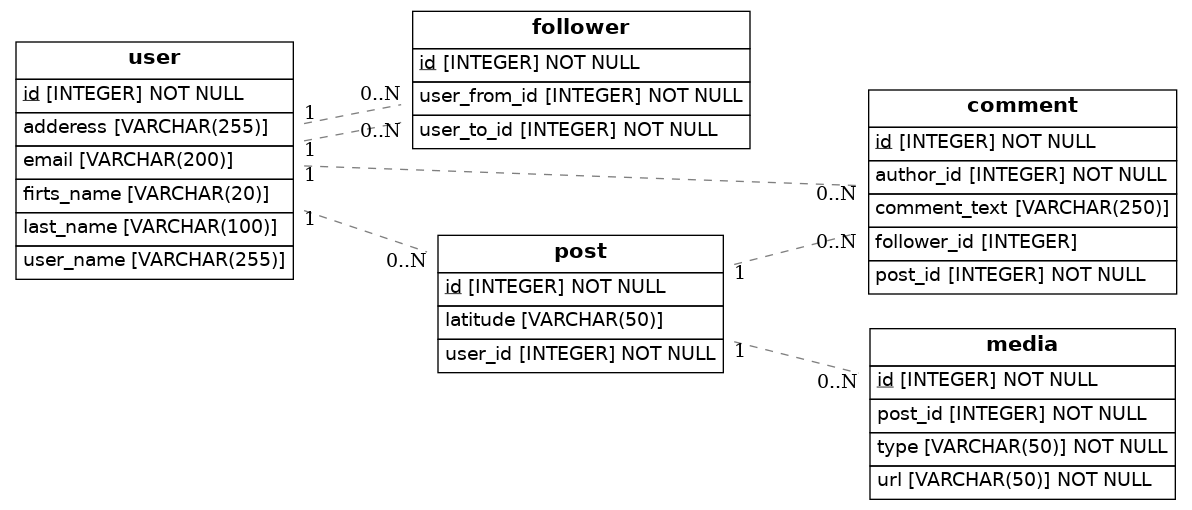
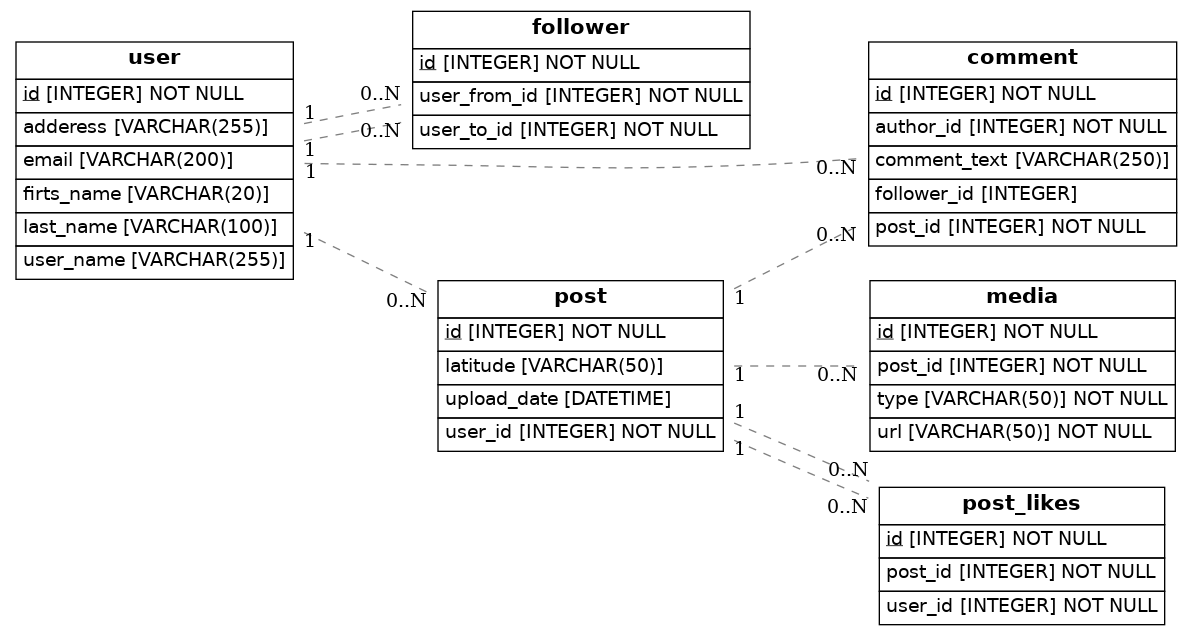
modelo de base terminado

Changed region(s): [[0.6829, 0.0588, 0.9933, 1.0], [0.0, 0.0, 0.6518, 0.5588], [0.3104, 0.4412, 0.6518, 0.7353]]

diff --git a/src/models.py b/src/models.py
@@ -44,18 +44,43 @@ class  Comment(Base):
     follower_id = Column(Integer)
     post_id = Column(Integer, ForeignKey('post.id'), nullable=False)
 
+    #relationships
+    user = relationship('User', back_populates="Commet", uselist=False, single_parent=True)
+    Post = relationship('Post', back_populates="Commet", uselist=False, single_parent=True)
+
+
 class Post(Base):
     __tablename__ = 'post'
     id = Column(Integer, primary_key=True)
     user_id = Column(Integer, ForeignKey('user.id'), nullable=False) 
     latitude = Column(String(50))
+    upload_date = Column(DateTime())
+
+    #relationships
+    comment = relationship('Comment', back_populates="Post", uselist=False, single_parent=True)
+    user = relationship('User', back_populates="Post", uselist=False, single_parent=True)
     
+
 class Media(Base):
     __tablename__ = 'media'
     id = Column(Integer, primary_key=True)
     type = Column(String(50), nullable=False)
     url = Column(String(50), nullable=False)
     post_id = Column(Integer, ForeignKey('post.id'), nullable=False)
+
+    #relationships
+    post = relationship('Post', back_populates="Media", uselist=False, single_parent=True)
+
+
+class Post_Likes(Base):
+    __tablename__ = 'post_likes'
+    id = Column(Integer, primary_key=True)
+    post_id = Column(Integer, ForeignKey('post.id'), nullable=False)
+    user_id = Column(Integer,ForeignKey('post.id'), nullable=False )
+
+    #relationships
+    post = relationship('Post', back_populates="Post_Likes", uselist=False, single_parent=True)
+
 
 
     def to_dict(self):
